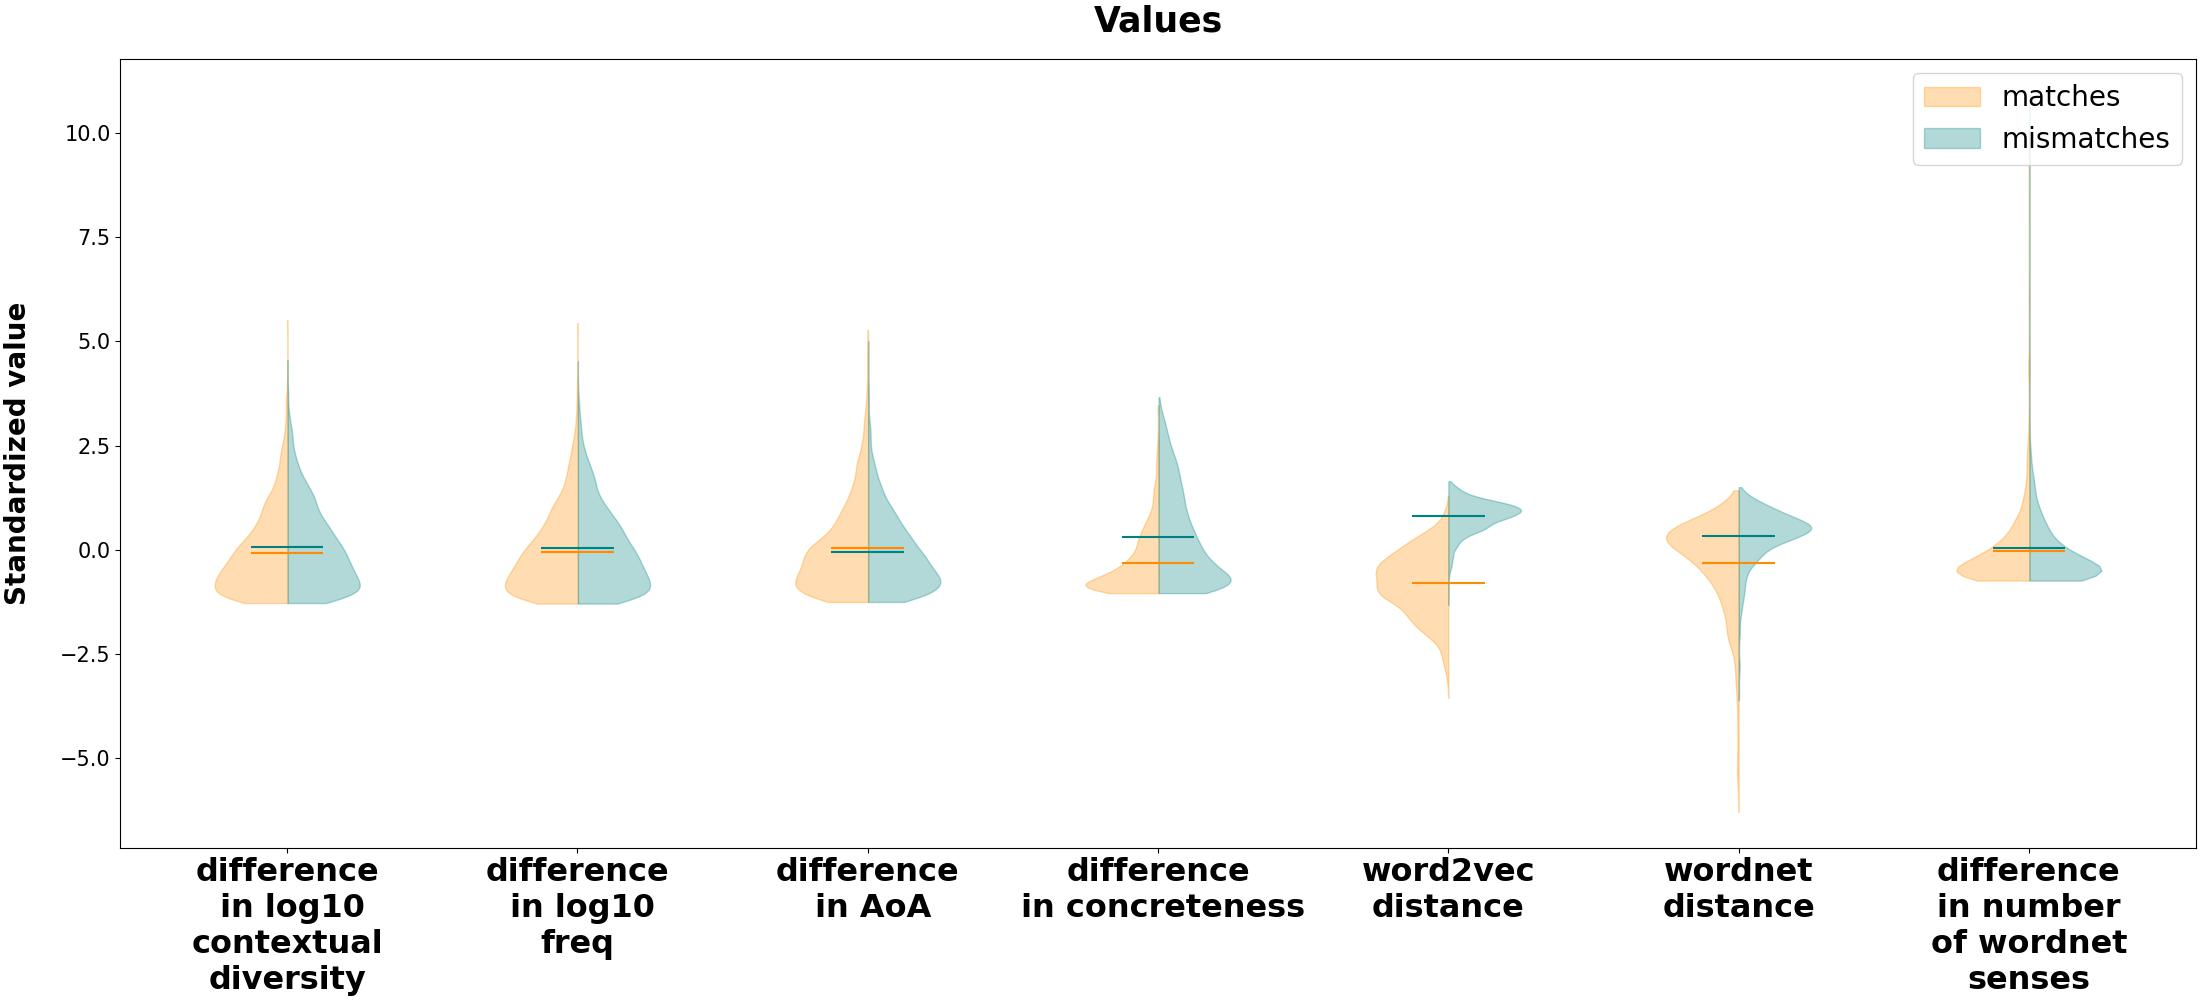
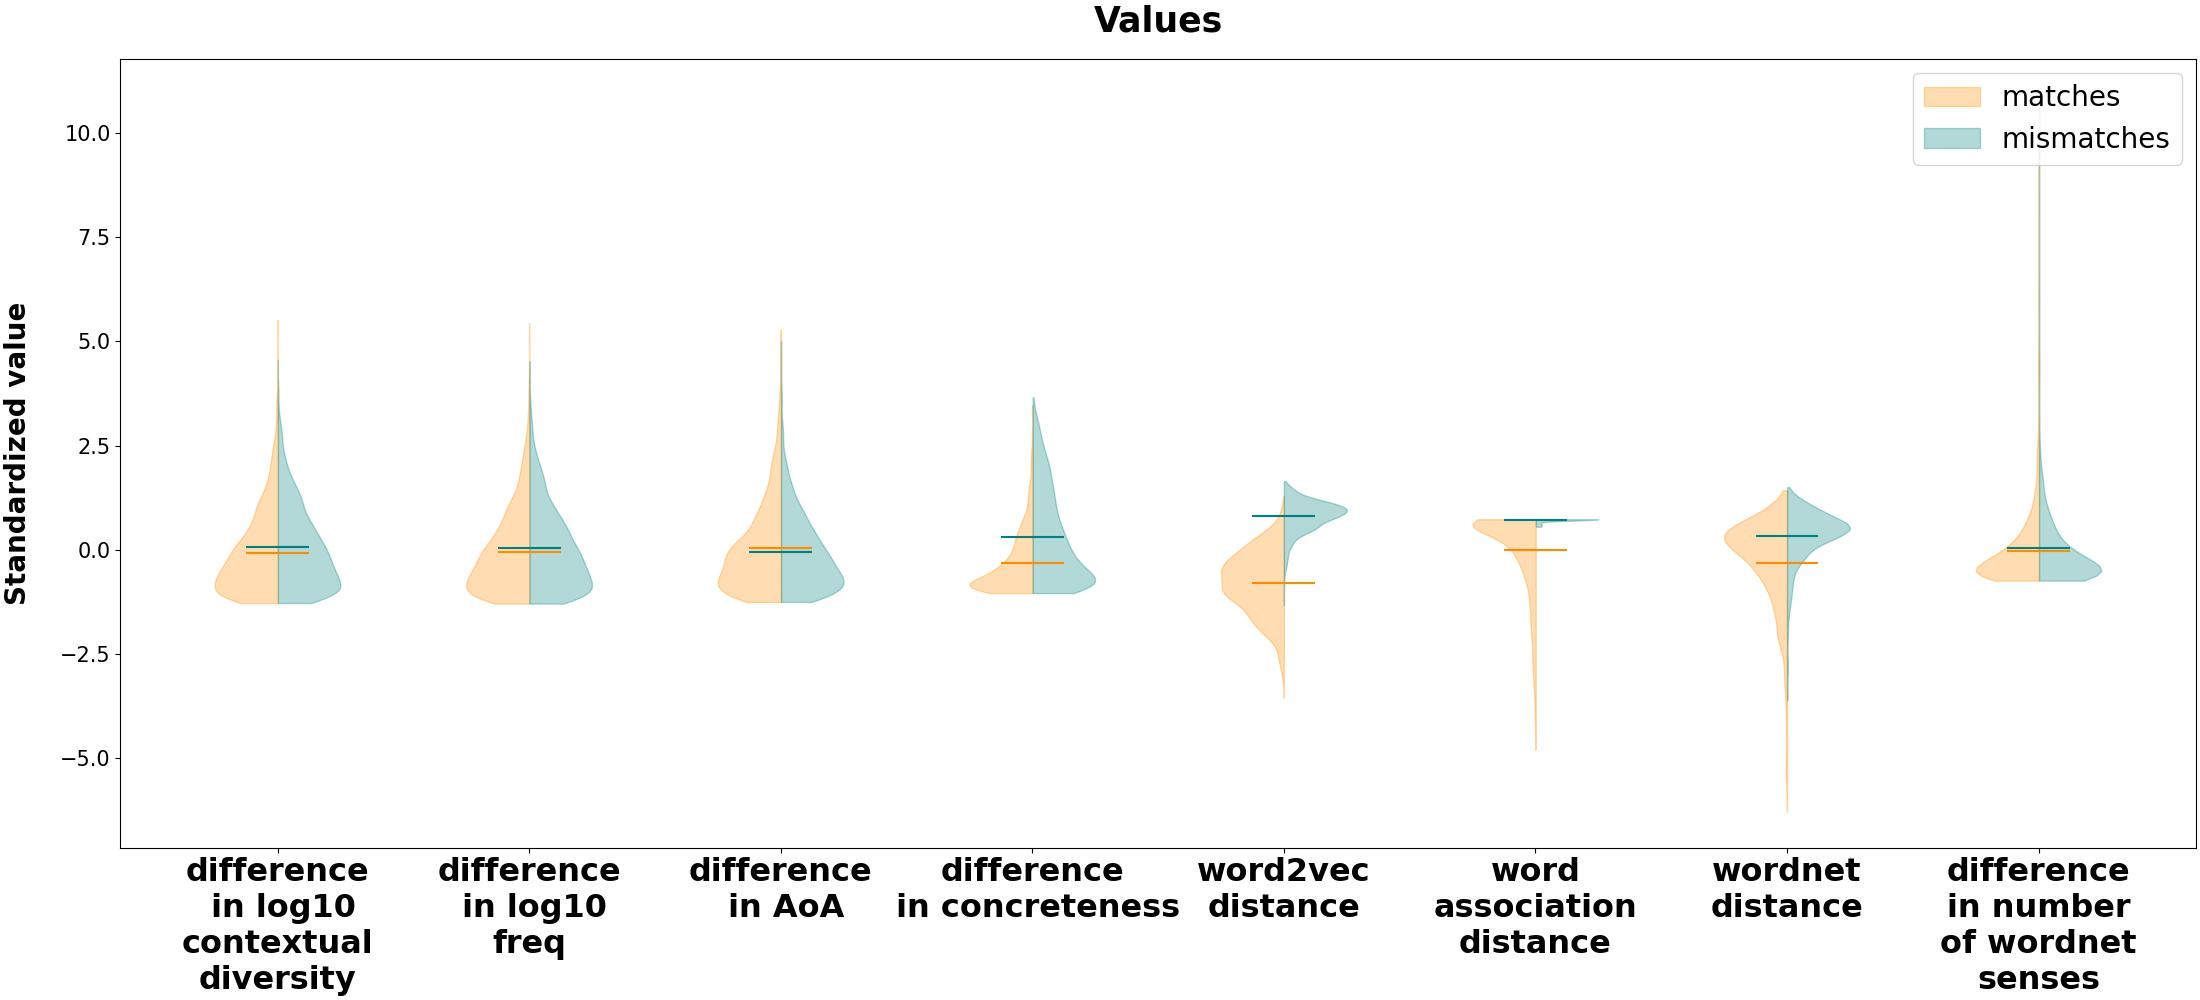
added word associations

diff --git a/analysis.py b/analysis.py
@@ -19,8 +19,9 @@ all_values = {
 ### read norms
 
 folder = 'norms'
-assert len(os.listdir(folder)) == 3
+assert len(os.listdir(folder)) == 4
 norms = dict()
+associations = dict()
 pos = dict()
 
 for f in os.listdir(folder):
@@ -34,6 +35,9 @@ for f in os.listdir(folder):
     elif 'PoS' in f:
         keys = ['log10_contextual_diversity', 'log10_freq']
         all_rel_idxs = [[0, 8], [0, 6]]
+    elif 'strength' in f:
+        keys = ['associative_strength']
+        all_rel_idxs = [[0, 1, -1]]
     
     for key, rel_idxs in zip(keys, all_rel_idxs):
     
@@ -46,12 +50,16 @@ for f in os.listdir(folder):
                 line = l.strip().split('\t')
                 if len(line) < 3:
                     continue
-                try:
-                    norms[key][line[rel_idxs[0]]] = float(line[rel_idxs[1]])
-                except ValueError:
-                    continue
-                if key == 'concreteness':
-                    pos[line[0]] = line[-1]
+                if key == 'associative_strength':
+                    associations[(line[0], line[1])] = float(line[-1])
+                else:
+                    try:
+                        norms[key][line[rel_idxs[0]]] = float(line[rel_idxs[1]])
+                    except ValueError:
+                        continue
+                    if key == 'concreteness':
+                        pos[line[0]] = line[-1]
+del norms['associative_strength']
 
 ### read wilson & al data
 
@@ -86,7 +94,6 @@ words_per_cat = {k : set([w for case in lst for w in case[:2]]) for k, lst in co
 
 ### loading w2v
 wv = gensim.downloader.load('word2vec-google-news-300')
-#sims_per_cat = {k : [wv.similarity(case[0], case[1]) for case in lst] for k, lst in couples_dict.items()}
 
 ### printouts!
 
@@ -120,6 +127,12 @@ for k, tuples in couples_dict.items():
     print('avg w2v similarity for {}: {}'.format(k, numpy.average(w2v_sims)))
     all_values[k]['word2vec_distance'] = [1-s for s in w2v_sims]
     print('std of w2v similarity for {}: {}'.format(k, numpy.std(w2v_sims)))
+    ### associations
+    assos = [associations[tuple(tup[:2])] for tup in tuples if tuple(tup[:2]) in associations.keys()]
+    print('avg word association for {}: {}'.format(k, numpy.average(assos)))
+    all_values[k]['word_association_distance'] = [1-s for s in assos]
+    print('std of word association for {}: {}'.format(k, numpy.std(assos)))
+    
     ### wordnet
     wn_sims = list()
     diff_senses = list()
